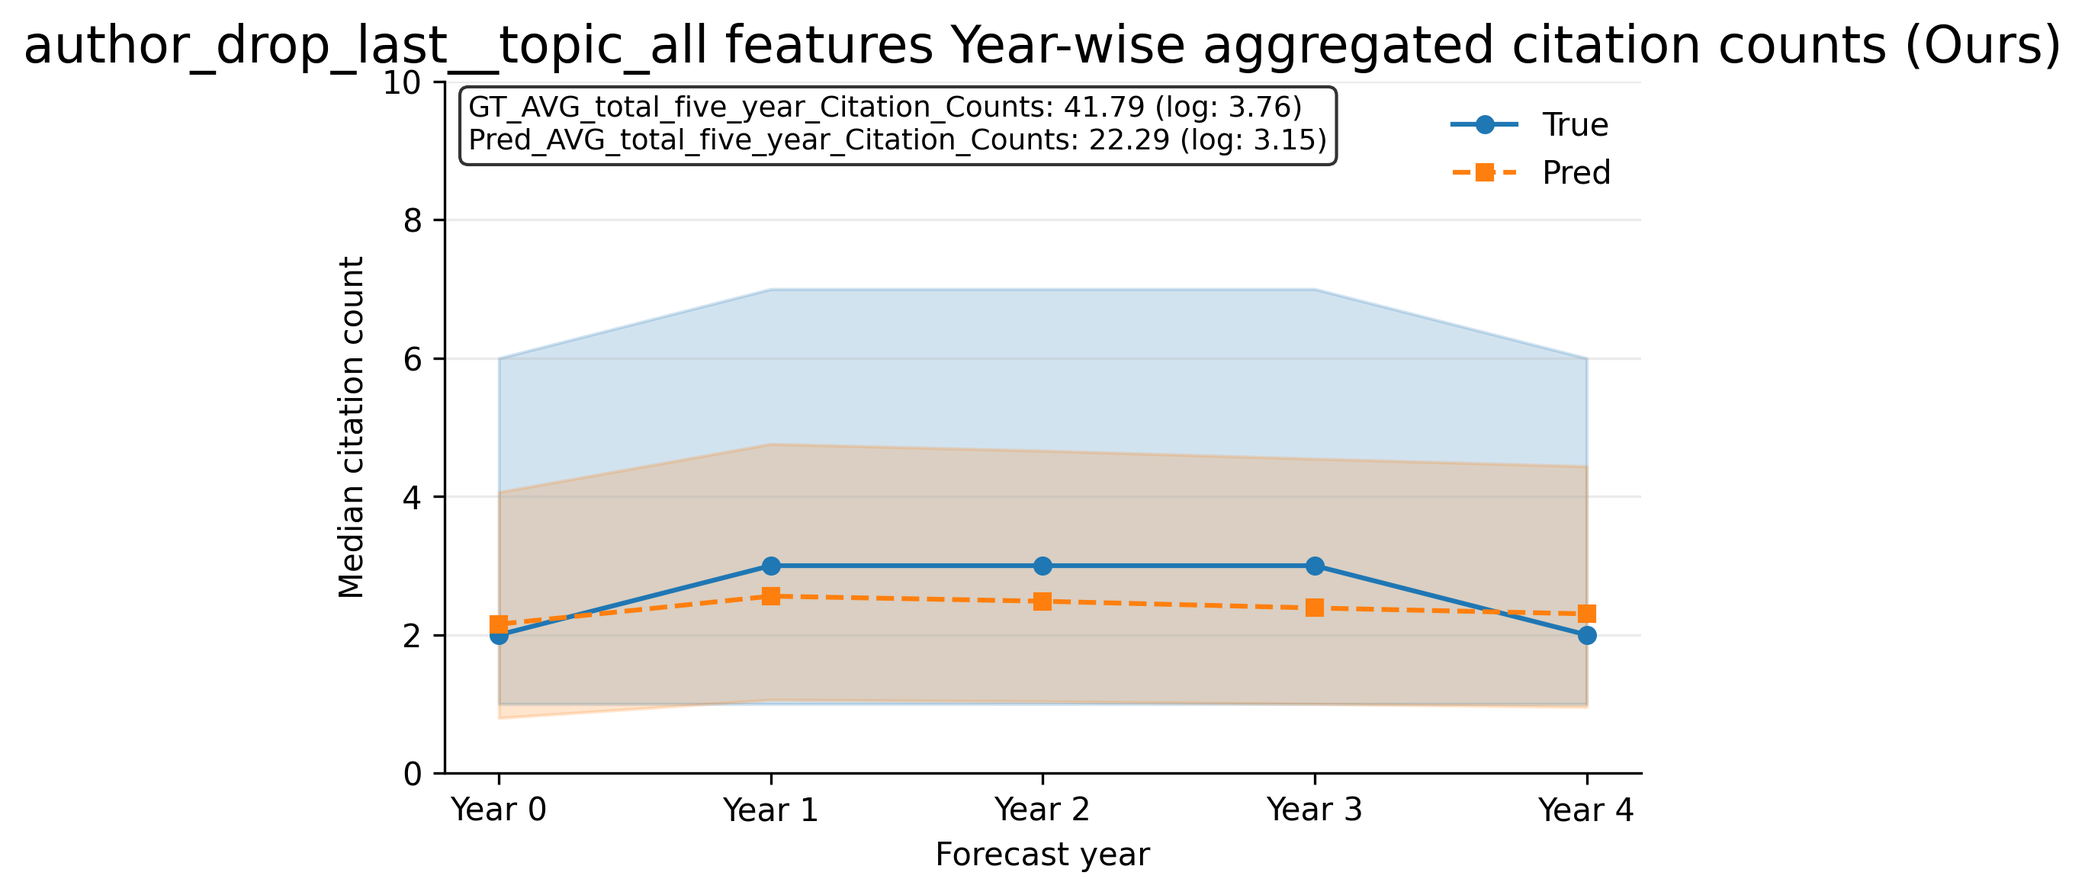
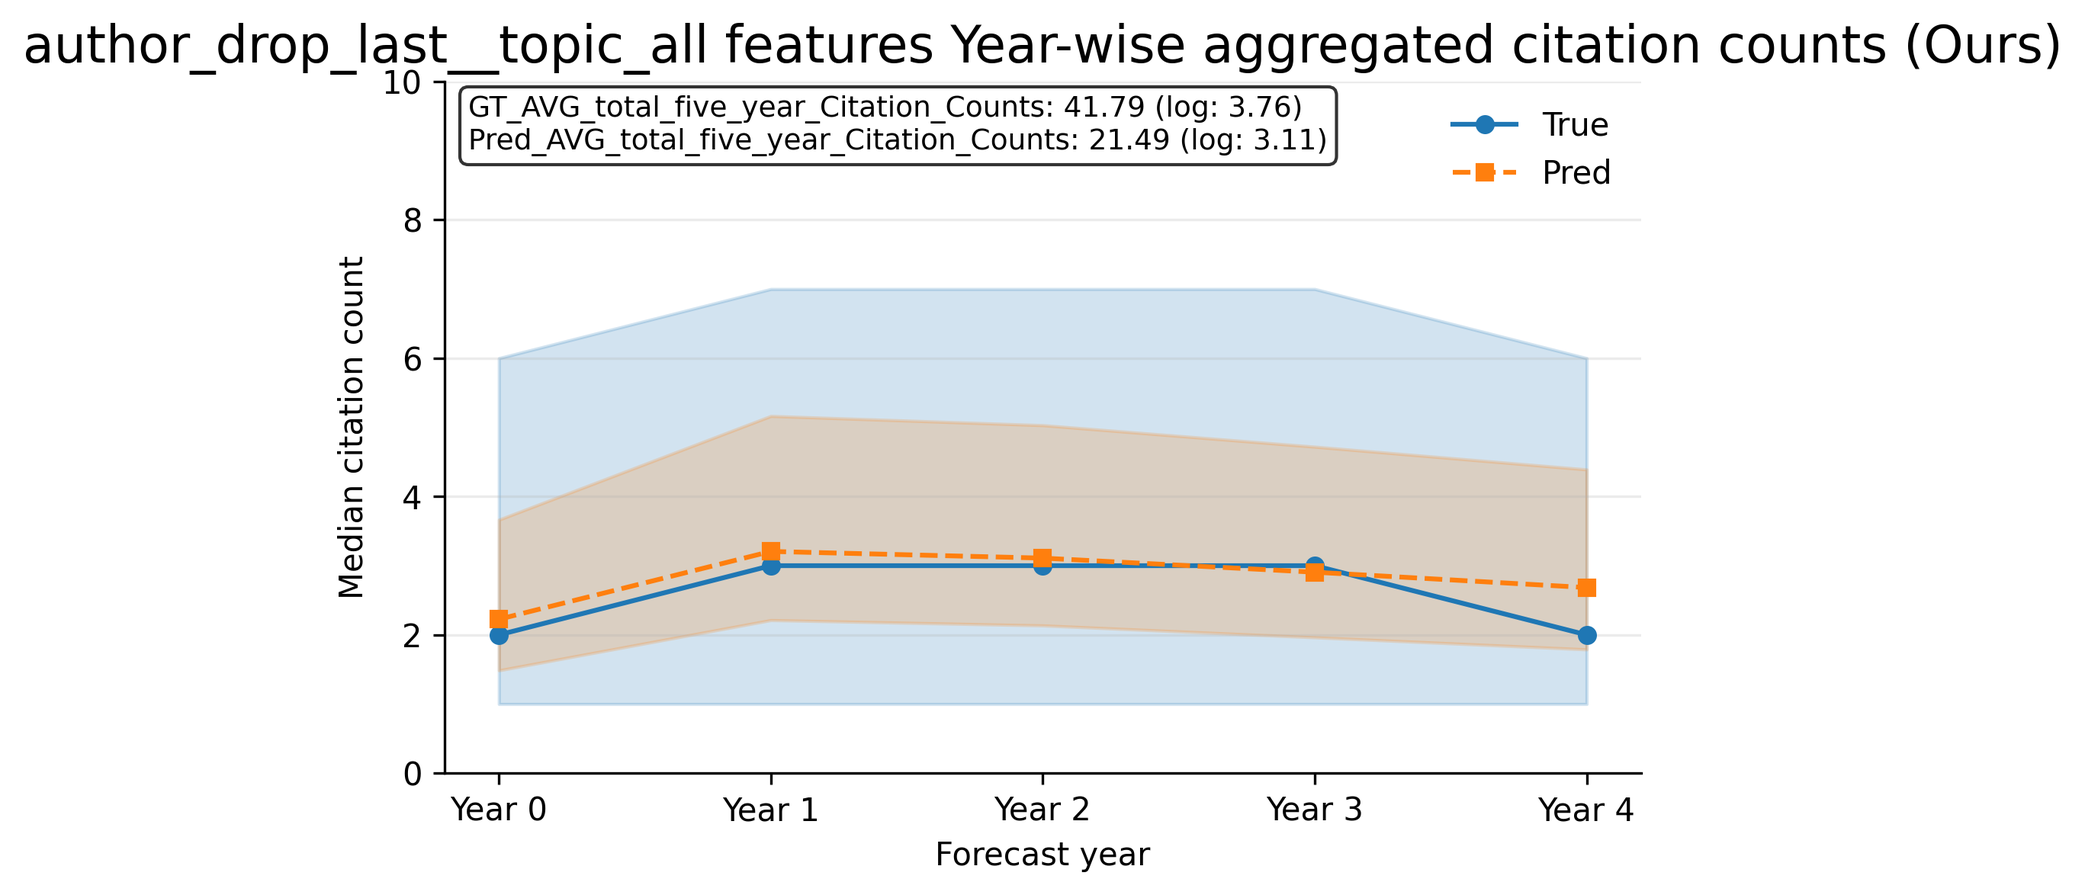
add social info, three features: productivity, seneriority, and connectivity

diff --git a/models/full_model.py b/models/full_model.py
@@ -31,7 +31,7 @@ class ImpactModel(nn.Module):
         super().__init__()
         self.encoder = RGCNEncoder(metadata, in_dims, hidden_dim) # output: keys ('author', 'paper', 'venue'), values: embeddings. (num_nodes_of_that_type, hidden_dim)
         self.imputer = WeightedImputer(meta_types, hidden_dim) # impute to update the new paper embedding.
-        self.generator = ImpactRNN(hidden_dim, rnn_layers=1)
+        self.generator = ImpactRNN(hidden_dim * 2, rnn_layers=1)  # input is now 2*hidden_dim
         self.beta = beta
         self.hidden_dim = hidden_dim
         self.cold_p = cold_start_prob
@@ -108,12 +108,29 @@ class ImpactModel(nn.Module):
             ] # get the papers' authors, references, and venue.
             
             y_true    = data['paper'].y_citations[paper_ids].float()
-            if self.input_feature_model == 'drop topic': # here can be problematic by setting the topic vector to zero.
-                topic_all = torch.zeros(y_true.size(0), self.hidden_dim, device=device)
+            # Compute mean topic and mean social embedding for this batch
+            mean_topic = embeddings[t]['paper'].mean(dim=0, keepdim=True)  # [1, hidden_dim]
+            mean_social = None
+            if 'author_social' in embeddings[t]:
+                mean_social = embeddings[t]['author_social'].mean(dim=0, keepdim=True)  # [1, hidden_dim]
+            
+            # Compute mean author embeddings for this batch
+            mean_author_topic = embeddings[t]['author'].mean(dim=0, keepdim=True)  # [1, hidden_dim]
+            mean_author_social = None
+            if 'author_social' in embeddings[t]:
+                mean_author_social = embeddings[t]['author_social'].mean(dim=0, keepdim=True)  # [1, hidden_dim]
+
+            if self.input_feature_model == 'drop topic':
+                # Use mean topic embedding for ablation
+                topic_all = mean_topic.expand(y_true.size(0), -1).to(device)
             elif self.input_feature_model == 'drop authors':
-                for nc in neigh_cache:
-                    nc.pop('author', None)
+                # Don't remove authors from cache, let imputer handle mean replacement
                 topic_all = embeddings[t]['paper'][paper_ids]
+            elif self.input_feature_model == 'drop social':
+                # Use mean social embedding for ablation (for the social part)
+                topic_all = embeddings[t]['paper'][paper_ids]
+                # The imputer will need to know to use mean_social for the social part
+                # (handled in imputer if needed)
             else:
                 topic_all = embeddings[t]['paper'][paper_ids]
 
@@ -146,13 +163,18 @@ class ImpactModel(nn.Module):
                                         snapshots,
                                         embeddings,
                                         predefined_neigh = neigh_cache[i],
-                                        topic_vec        = topic_all[i]
+                                        topic_vec        = topic_all[i],
+                                        drop_social      = (self.input_feature_model == 'drop social'),
+                                        mean_social      = mean_social,
+                                        drop_authors     = (self.input_feature_model == 'drop authors'),
+                                        mean_author_topic = mean_author_topic,
+                                        mean_author_social = mean_author_social
                                     )
                                     for i in range(N)
-                                ], dim=0)                                            # [N,H], each paper has a embedding of size H.
-                seq_steps.append(seq_k) # seq_k is a tensor of shape [N,H], from year t back to year t -5, from now to 5 years ago
+                                ], dim=0)                                            # [N,2*H], each paper has a embedding of size 2*H.
+                seq_steps.append(seq_k) # seq_k is a tensor of shape [N,2*H], from year t back to year t -5, from now to 5 years ago
             seq_steps = seq_steps[::-1] # reverse the sequence, in a chronological order.
-            V_p = torch.stack(seq_steps, dim=1) # [N,6,H]
+            V_p = torch.stack(seq_steps, dim=1) # [N,6,2*H]
             # 3.3 generate citation distribution -----------------------
             eta, mu, sigma = self.generator(V_p) 
             y_hat_cum = self.generator.predict_cumulative(
@@ -232,7 +254,13 @@ class ImpactModel(nn.Module):
 
             paper_ids = mask.nonzero(as_tuple=False).view(-1)
             y_true    = data['paper'].y_citations[paper_ids].float()
-            if self.input_feature_model == 'drop topic':
+            
+            # Handle inference-time topic dropping
+            if hasattr(self.args, 'inference_time_topic_dropping') and self.args.inference_time_topic_dropping == 'drop topic':
+                # Compute mean topic embedding for this batch
+                mean_topic = embeddings[t]['paper'].mean(dim=0, keepdim=True)  # [1, hidden_dim]
+                topic_all = mean_topic.expand(y_true.size(0), -1).to(device)
+            elif self.input_feature_model == 'drop topic':
                 topic_all = torch.zeros(y_true.size(0), self.hidden_dim, device=device)
             else:
                 topic_all = embeddings[t]['paper'][paper_ids]
@@ -254,13 +282,18 @@ class ImpactModel(nn.Module):
                                                 snapshots,
                                                 embeddings,
                                                 predefined_neigh = neigh_cache[i],
-                                                topic_vec        = topic_all[i]
+                                                topic_vec        = topic_all[i],
+                                                drop_social      = (self.input_feature_model == 'drop social'),
+                                                mean_social      = None,
+                                                drop_authors     = (self.input_feature_model == 'drop authors'),
+                                                mean_author_topic = None,
+                                                mean_author_social = None
                                             )
                                             for i in range(N)
-                                        ], dim=0)                               # [N,H]
+                                        ], dim=0)                               # [N,2*H]
                 seq_steps.append(seq_k)
             seq_steps = seq_steps[::-1]
-            V_p = torch.stack(seq_steps, dim=1)        # [N,6,H]
+            V_p = torch.stack(seq_steps, dim=1)        # [N,6,2*H]
 
             # 4) predict citation distribution
             eta, mu, sigma = self.generator(V_p)
@@ -293,7 +326,14 @@ class ImpactModel(nn.Module):
         plus the embeddings of the *same* authors in the previous years.
         """
         device = next(self.parameters()).device
-        if self.input_feature_model == 'drop topic':
+        
+        # Handle inference-time topic dropping
+        if hasattr(self.args, 'inference_time_topic_dropping') and self.args.inference_time_topic_dropping == 'drop topic':
+            # Compute mean topic embedding for this snapshot
+            embeddings = [self.encoder(g) for g in snapshots]
+            mean_topic = embeddings[current_year_idx]['paper'].mean(dim=0, keepdim=True)  # [1, hidden_dim]
+            topic_vec = mean_topic.squeeze(0).to(device)
+        elif self.input_feature_model == 'drop topic':
             topic_vec = torch.zeros(self.hidden_dim, device=device)
         else:
             topic_vec = topic_vec.to(device)
@@ -312,10 +352,19 @@ class ImpactModel(nn.Module):
             elif mode == 'keep_last' and len(author_ids) >= 1:
                 author_ids = [author_ids[-1]]
             elif mode == 'no author':
-                author_ids = []
+                # Don't remove authors, let imputer handle mean replacement
+                pass
 
         # Pre-encode all snapshots once for efficiency
         embeddings = [self.encoder(g) for g in snapshots]
+
+        # Compute mean author embeddings for 'no author' ablation
+        mean_author_topic = None
+        mean_author_social = None
+        if mode == 'no author':
+            mean_author_topic = embeddings[current_year_idx]['author'].mean(dim=0, keepdim=True)  # [1, hidden_dim]
+            if 'author_social' in embeddings[current_year_idx]:
+                mean_author_social = embeddings[current_year_idx]['author_social'].mean(dim=0, keepdim=True)  # [1, hidden_dim]
 
         # Build sequence using the same approach as forward method
         seq = []
@@ -332,11 +381,16 @@ class ImpactModel(nn.Module):
                 snapshots,
                 embeddings,
                 predefined_neigh={'author': author_indices},
-                topic_vec=topic_vec
+                topic_vec=topic_vec,
+                drop_social      = (self.input_feature_model == 'drop social'),
+                mean_social      = None,
+                drop_authors     = (self.input_feature_model == 'drop authors'),
+                mean_author_topic = mean_author_topic,
+                mean_author_social = mean_author_social
             )
             seq.append(v_k)
 
-        V_p = torch.stack(seq, 0).unsqueeze(0)  # [1, 6, H]
+        V_p = torch.stack(seq, 0).unsqueeze(0)  # [1, 6, 2*H]
         eta, mu, sigma = self.generator(V_p)
         cum = self.generator.predict_cumulative(
             self.horizons.to(device), eta, mu, sigma
@@ -372,7 +426,13 @@ class ImpactModel(nn.Module):
 
             paper_ids = mask.nonzero(as_tuple=False).view(-1)
             y_true = data['paper'].y_citations[paper_ids].float()
-            if self.input_feature_model == 'drop topic':
+            
+            # Handle inference-time topic dropping
+            if hasattr(self.args, 'inference_time_topic_dropping') and self.args.inference_time_topic_dropping == 'drop topic':
+                # Compute mean topic embedding for this batch
+                mean_topic = encs[t]['paper'].mean(dim=0, keepdim=True)  # [1, hidden_dim]
+                topic_all = mean_topic.expand(y_true.size(0), -1).to(device)
+            elif self.input_feature_model == 'drop topic':
                 topic_all = torch.zeros(y_true.size(0), self.hidden_dim, device=device)
             else:
                 topic_all = encs[t]['paper'][paper_ids]
@@ -469,15 +529,20 @@ class ImpactModel(nn.Module):
                     snapshots,
                     embeddings,
                     predefined_neigh={'author': self._get_author_indices_for_year(teams[i][0], yr, snapshots)},
-                    topic_vec=teams[i][1]
+                    topic_vec=teams[i][1],
+                    drop_social      = (self.input_feature_model == 'drop social'),
+                    mean_social      = None,
+                    drop_authors     = (self.input_feature_model == 'drop authors'),
+                    mean_author_topic = None,
+                    mean_author_social = None
                 )
                 for i in range(N)
-            ], dim=0)  # [N, H]
+            ], dim=0)  # [N, 2*H]
             
             seq_steps.append(seq_k)
 
         seq_steps = seq_steps[::-1]  # reverse to get chronological order
-        V_p = torch.stack(seq_steps, dim=1)  # [N, 6, H]
+        V_p = torch.stack(seq_steps, dim=1)  # [N, 6, 2*H]
 
         # --------------------------------------------------------------
         # Predict with ImpactRNN

diff --git a/models/imputer.py b/models/imputer.py
@@ -15,7 +15,7 @@ class WeightedImputer(nn.Module):
         })
         self.w['self'] = nn.Parameter(torch.tensor(1.0))
         self.author_attention = nn.Sequential(
-            nn.Linear(hidden_dim, hidden_dim // 2),
+            nn.Linear(2* hidden_dim, hidden_dim // 2),
             nn.ReLU(),
             nn.Linear(hidden_dim // 2, 1),
             nn.Softmax(dim=0)
@@ -92,7 +92,12 @@ class WeightedImputer(nn.Module):
         snapshots,
         embeddings,
         predefined_neigh: dict[str, torch.Tensor] | None = None,
-        topic_vec=None
+        topic_vec=None,
+        drop_social: bool = False,
+        mean_social: torch.Tensor = None,
+        drop_authors: bool = False,
+        mean_author_topic: torch.Tensor = None,
+        mean_author_social: torch.Tensor = None
     ):
         """
         Args
@@ -106,10 +111,16 @@ class WeightedImputer(nn.Module):
         predefined_neigh  : optional neighbour dict produced by
                             `collect_neighbours`.  Needed because the paper
                             itself is not present in earlier graphs.
+        topic_vec         : topic embedding for the paper
+        drop_social       : if True, use mean_social for the social part of author embedding
+        mean_social       : mean social embedding to use for ablation
+        drop_authors      : if True, use mean_author_topic and mean_author_social for all authors
+        mean_author_topic : mean author topic embedding to use for ablation
+        mean_author_social: mean author social embedding to use for ablation
 
         Returns
         -------
-        Tensor [hidden_dim] – imputed embedding v_{p, year_idx}
+        Tensor [2*hidden_dim] – imputed embedding v_{p, year_idx}
         """
         # data['paper'].y_year can get the publication year of the paper, we only need the papers published in year t.
         data = snapshots[year_idx]
@@ -126,7 +137,7 @@ class WeightedImputer(nn.Module):
 
         # ----- nothing to aggregate --------------------------------------
         if not neighbours:
-            return torch.zeros(embs['paper'].size(-1), device=device)
+            return torch.zeros(embs['paper'].size(-1) * 2, device=device)  # output is 2*hidden_dim
 
         # ----- weighted average  -----------------------------------------
         parts = []
@@ -137,22 +148,42 @@ class WeightedImputer(nn.Module):
             if ids.numel() == 0:
                 continue
             if ntype == 'author':
+                if drop_authors and mean_author_topic is not None and mean_author_social is not None:
+                    # Use mean embeddings for all authors
+                    author_topic = mean_author_topic.expand(ids.size(0), -1)
+                    author_social = mean_author_social.expand(ids.size(0), -1)
+                elif mean_author_topic is not None and mean_author_social is not None and ids.size(0) > 0:
+                    # Use mean embeddings for all authors (inference-time 'no author' case)
+                    author_topic = mean_author_topic.expand(ids.size(0), -1)
+                    author_social = mean_author_social.expand(ids.size(0), -1)
+                else:
+                    author_topic = embs['author'][ids]           # [num_authors, hidden_dim]
+                    if drop_social and mean_social is not None:
+                        # Use mean_social for all authors
+                        author_social = mean_social.expand(author_topic.size(0), -1)
+                    else:
+                        author_social = embs['author_social'][ids]   # [num_authors, hidden_dim]
+                author_embeddings = torch.cat([author_topic, author_social], dim=1)  # [num_authors, 2*hidden_dim]
                 # Use attention mechanism for authors
-                author_embeddings = embs[ntype][ids]  # [num_authors, hidden_dim]
                 aggregated_authors = self.aggregate_authors_with_attention(author_embeddings)
                 parts.append(aggregated_authors)
                 weights.append(self.w[ntype])
             else:
-                parts.append(embs[ntype][ids].mean(dim=0))
+                # For other types, expand to match output dim
+                emb = embs[ntype][ids].mean(dim=0)
+                emb = torch.cat([emb, torch.zeros_like(emb)], dim=0)  # [2*hidden_dim]
+                parts.append(emb)
                 weights.append(self.w[ntype])
 
         # --- add the paper's own embedding --------------------------------
         if topic_vec is not None:
-            parts.append(topic_vec)
+            # Expand topic_vec to 2*hidden_dim by concatenating zeros for social part
+            topic_vec_expanded = torch.cat([topic_vec, torch.zeros_like(topic_vec)], dim=0)
+            parts.append(topic_vec_expanded)
             weights.append(self.w['self'])
         
         if len(parts) == 0:
-            return torch.zeros(embs['paper'].size(-1), device=device)
+            return torch.zeros(embs['paper'].size(-1) * 2, device=device)
 
         # Normalize weights
         weights = torch.stack(weights)

diff --git a/train.py b/train.py
@@ -99,12 +99,12 @@ def main():
                         help="Path to a .pt checkpoint file to load model and optimizer states for continuing training.")
     parser.add_argument("--training_off", type=int, default=0,
                     help="If 1, training is turned off and the model is evaluated only. If 0, training is turned on and the model is trained.")
-    parser.add_argument("--input_feature_model", choices=['all features', 'drop topic', 'drop authors'], default='all features',
-                        help="During the training, Input feature model to use. Choose one of the two: 'all features' or 'drop topic'.")
+    parser.add_argument("--input_feature_model", choices=['all features', 'drop topic', 'drop authors', 'drop social'], default='all features',
+                        help="During the training, Input feature model to use. Choose one of the options: 'all features', 'drop topic', 'drop authors', or 'drop social'.")
     parser.add_argument("--inference_time_author_dropping", type=str, default=False,
                         help="Whether to drop authors from the training set. Default is False.")
-    # parser.add_argument("--inference_time_num_author_dropping_k", type=int, default=0,
-    #                     help="Number of authors to drop from the training set. Default is 0.")
+    parser.add_argument("--inference_time_topic_dropping", type=str, default=False,
+                        help="Whether to drop topic at inference time. Options: False, 'drop topic'. Default is False.")
     parser.add_argument("--weight_decay", type=float, default=5e-3,
                         help="Weight decay for the optimizer. Default is 5e-3.")
     parser.add_argument("--grad_clip", type=float, default=1.0,
@@ -143,7 +143,7 @@ def main():
         console.print(f"[bold]Test years:[/bold]  {test_years}")
         console.print(f"[bold]Device:[/bold] {args.device}")
         
-        snapshots = load_snapshots("data/yearly_snapshots_specter2_starting_from_year_1/G_{}.pt", five_years_before_train_years + train_years + test_years)
+        snapshots = load_snapshots("data/yearly_snapshots_specter2_social_Info_starting_from_year_1/G_{}.pt", five_years_before_train_years + train_years + test_years)
         snapshots = [g.to(args.device) for g in snapshots]
         
         author_raw_ids = snapshots[-1]['author'].raw_ids          # list[str]

diff --git a/models/rgcn_encoder.py b/models/rgcn_encoder.py
@@ -27,11 +27,15 @@ class RGCNEncoder(nn.Module):
         self.lins = nn.ModuleDict()
         self.norms_initial = nn.ModuleDict() # For initial projection normalization
         # project every node type to hidden_dim (if needed)
-        for ntype, in_dim in in_dims.items():
-            if in_dim != hidden_dim:
+        for ntype, in_dims_ in in_dims.items():
+            if in_dims_ != hidden_dim:
                 # Changed bias to True to allow for non-zero output from zero input
-                self.lins[ntype] = nn.Linear(in_dim, hidden_dim, bias=True)
+                self.lins[ntype] = nn.Linear(in_dims_, hidden_dim, bias=True)
             self.norms_initial[ntype] = nn.BatchNorm1d(hidden_dim) # Add BatchNorm for initial projection
+
+        # Add a linear layer for projecting social features to hidden_dim
+        self.social_lin = nn.Linear(3, hidden_dim)  # 3 social features
+        self.norms_social = nn.BatchNorm1d(hidden_dim)
 
         self.convs = nn.ModuleList()
         self.norms_conv = nn.ModuleDict() # For normalization after each conv layer
@@ -96,6 +100,13 @@ class RGCNEncoder(nn.Module):
             if h.numel() > 0: # Only apply BatchNorm if there are nodes
                 h = self.norms_initial[ntype](h)
             x_dict[ntype] = h
+
+        # Add social embedding for authors
+        if 'author' in data.node_types and hasattr(data['author'], 'x_social'):
+            h_social = self.social_lin(data['author'].x_social)
+            if h_social.numel() > 0:
+                h_social = self.norms_social(h_social)
+            x_dict['author_social'] = h_social
 
         for i, hetero_layer in enumerate(self.convs): # type: HeteroConv
             out_dict = {k: [] for k in x_dict.keys()} # collect msg per dst

diff --git a/utils/dataset_builder.py b/utils/dataset_builder.py
@@ -106,6 +106,10 @@ def _assign_local_id(gid2lidx: dict, active_list: list, gid: str | int):
 # ------------- create one snapshot ---------------------------------------
 def build_snapshot(up_to_year: int, L: int = 5) -> HeteroData:
     print(f'[dataset_builder]   ⇒ building snapshot ≤ {up_to_year}')
+    # Path to the social info JSON for this year
+    social_info_path = f'/data/jx4237data/GNNteamingEvaluator/TeamingEvaluator/data_examine/author_social_info/author_social_info_{up_to_year}.json'
+    with open(social_info_path, 'r') as f:
+        author_social_info = json.load(f)
 
     # --------------------------------------------------------------- #
     # 1) register every node that exists up-to this year              #
@@ -188,6 +192,16 @@ def build_snapshot(up_to_year: int, L: int = 5) -> HeteroData:
 
     data['author'].x = x_author
     data['venue' ].x = x_venue
+    
+    x_social = torch.zeros(num_authors, 3)  # 3 features: num_papers, num_collaborators, seniority
+    for i, author_id in enumerate(ACTIVE_AUTHS):
+        info = author_social_info.get(author_id, None)
+        if info is not None:
+            x_social[i, 0] = info['num_papers']
+            x_social[i, 1] = info['num_collaborators']
+            x_social[i, 2] = info['seniority']
+        # else: leave as zeros (for authors with no info)
+    data['author'].x_social = x_social
 
     # --------------------------------------------------------------- #
     # 3) edges (use the local contiguous indices)                     #
